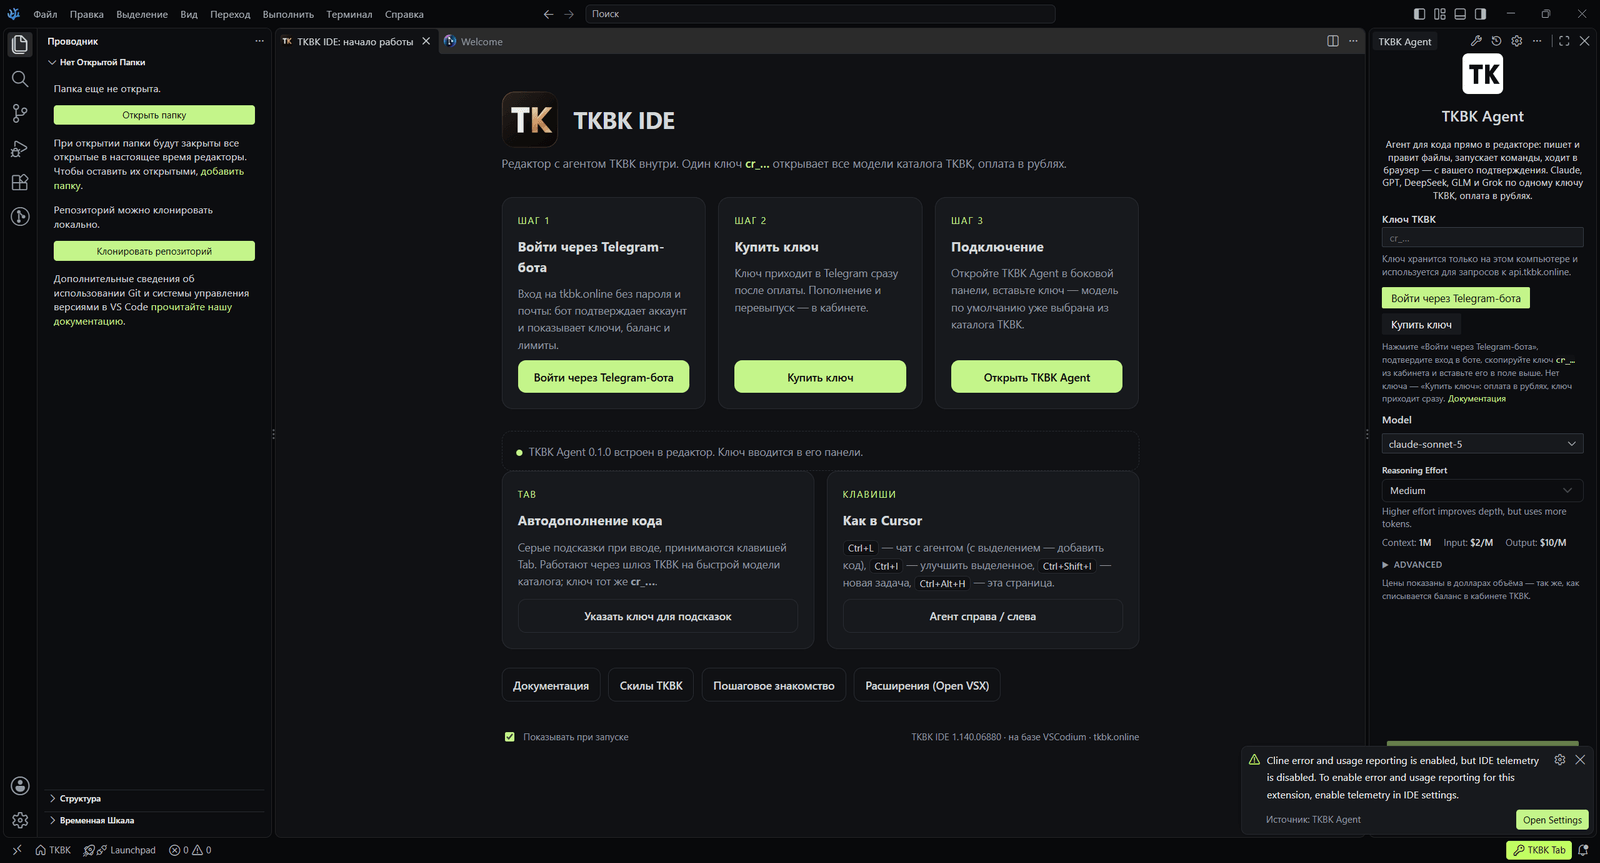
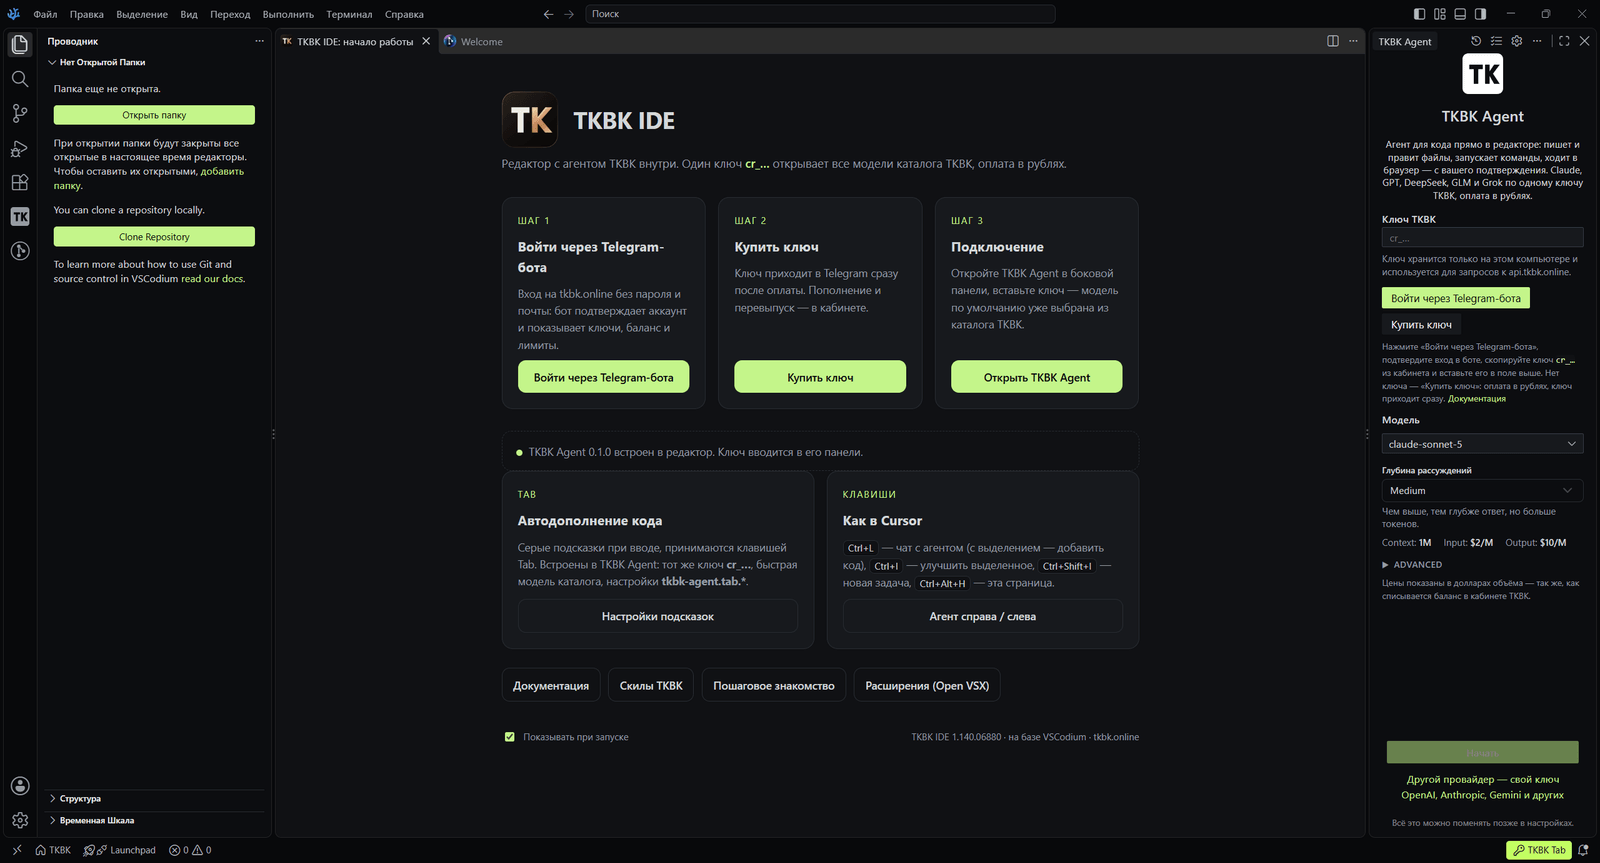
Tab lives in TKBK Agent: drop tkbk-complete from the bundle
TKBK Agent now ships the same Tab completion (tkbk-agent.tab.*), so the
built-in set is tkbk-welcome + tkbk-theme + the agent; tkbk-complete stays
in the repo as a standalone extension for other editors. Welcome page card
opens the agent's Tab menu (falls back to tkbk-complete when present).
README and first-run screenshot updated.

diff --git a/extensions/tkbk-welcome/extension.js b/extensions/tkbk-welcome/extension.js
@@ -271,8 +271,8 @@ function renderHtml(webview, extensionUri) {
     <section class="card">
       <span class="n">Tab</span>
       <h2>Автодополнение кода</h2>
-      <p>Серые подсказки при вводе, принимаются клавишей Tab. Работают через шлюз TKBK на быстрой модели каталога; ключ тот же <b>cr_…</b>.</p>
-      <button class="secondary" data-cmd="tabkey">Указать ключ для подсказок</button>
+      <p>Серые подсказки при вводе, принимаются клавишей Tab. Встроены в TKBK Agent: тот же ключ <b>cr_…</b>, быстрая модель каталога, настройки <b>tkbk-agent.tab.*</b>.</p>
+      <button class="secondary" data-cmd="tabkey">Настройки подсказок</button>
     </section>
     <section class="card">
       <span class="n">Клавиши</span>
@@ -351,8 +351,13 @@ function openWelcome(context) {
         return vscode.commands.executeCommand("workbench.action.openWalkthrough", "tkbk-online.tkbk-welcome#tkbk.gettingStarted", false);
       case "extensions":
         return vscode.commands.executeCommand("workbench.view.extensions");
-      case "tabkey":
-        return vscode.commands.executeCommand("tkbk.completion.setApiKey");
+      case "tabkey": {
+        // Tab lives inside TKBK Agent; the standalone tkbk-complete is a fallback for other editors.
+        const cmds = await vscode.commands.getCommands(true);
+        if (cmds.includes("tkbk-agent.tab.menu")) return vscode.commands.executeCommand("tkbk-agent.tab.menu");
+        if (cmds.includes("tkbk.completion.menu")) return vscode.commands.executeCommand("tkbk.completion.menu");
+        return openAgent();
+      }
       case "layout": {
         const pick = await vscode.window.showQuickPick(
           [
